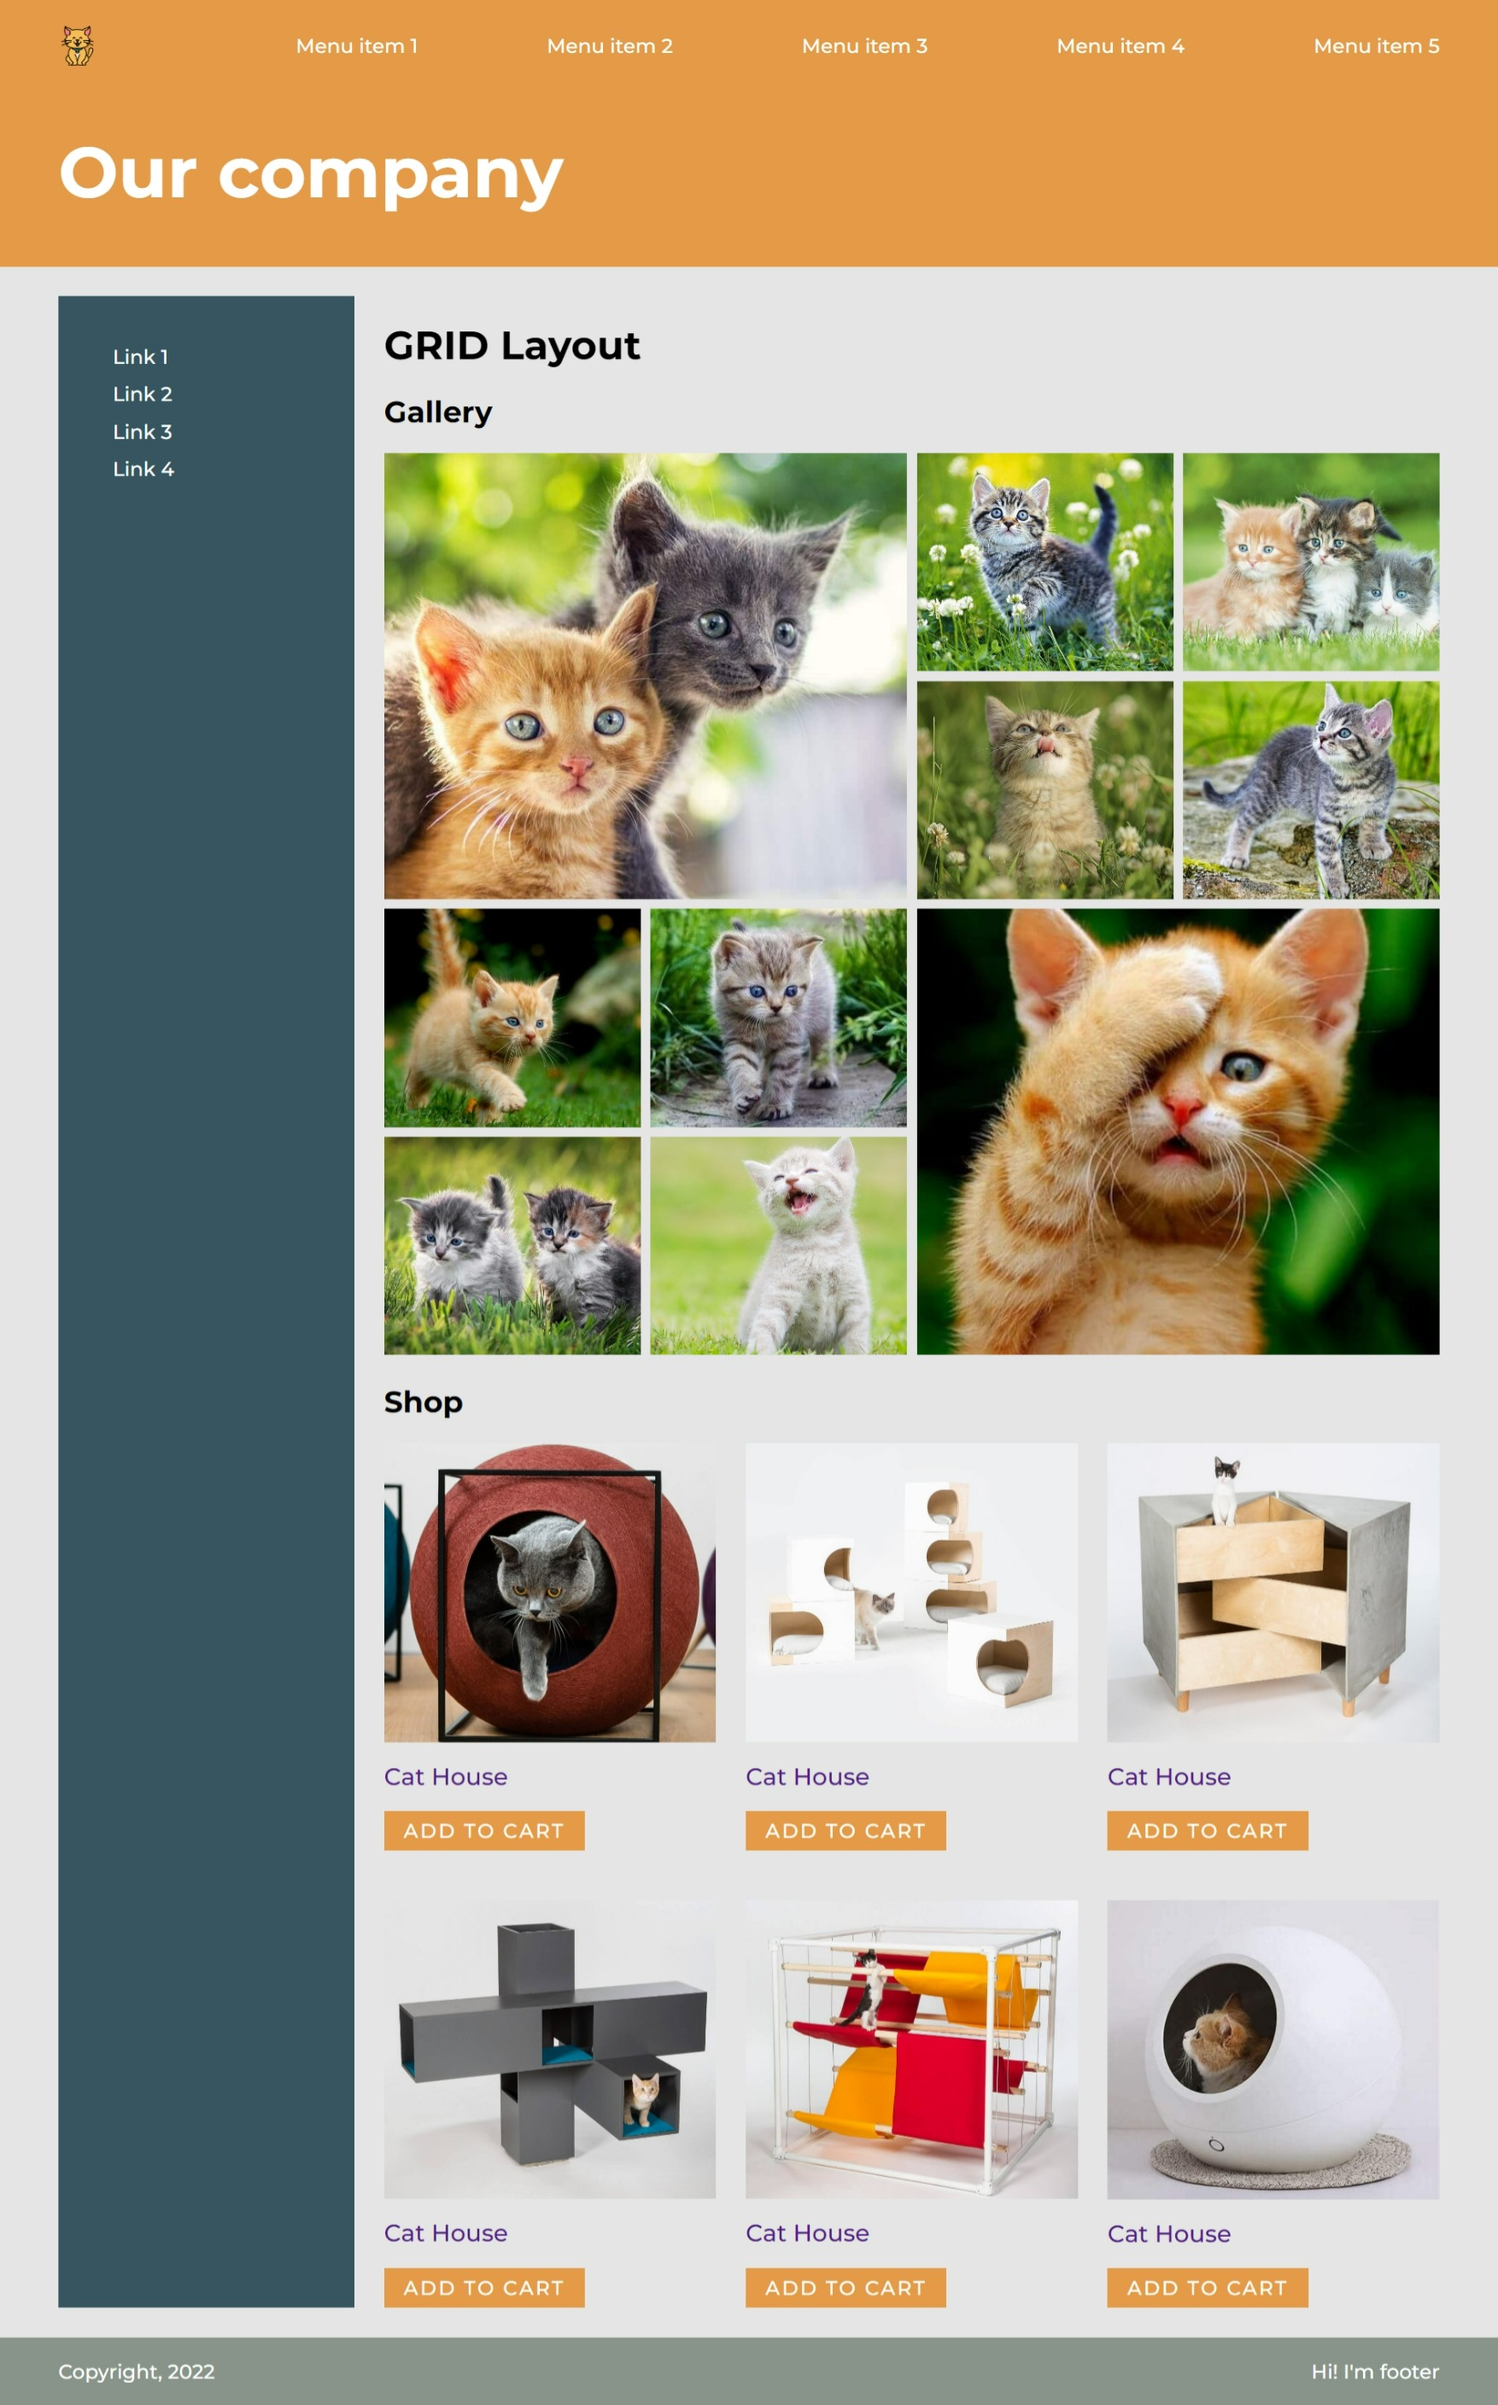
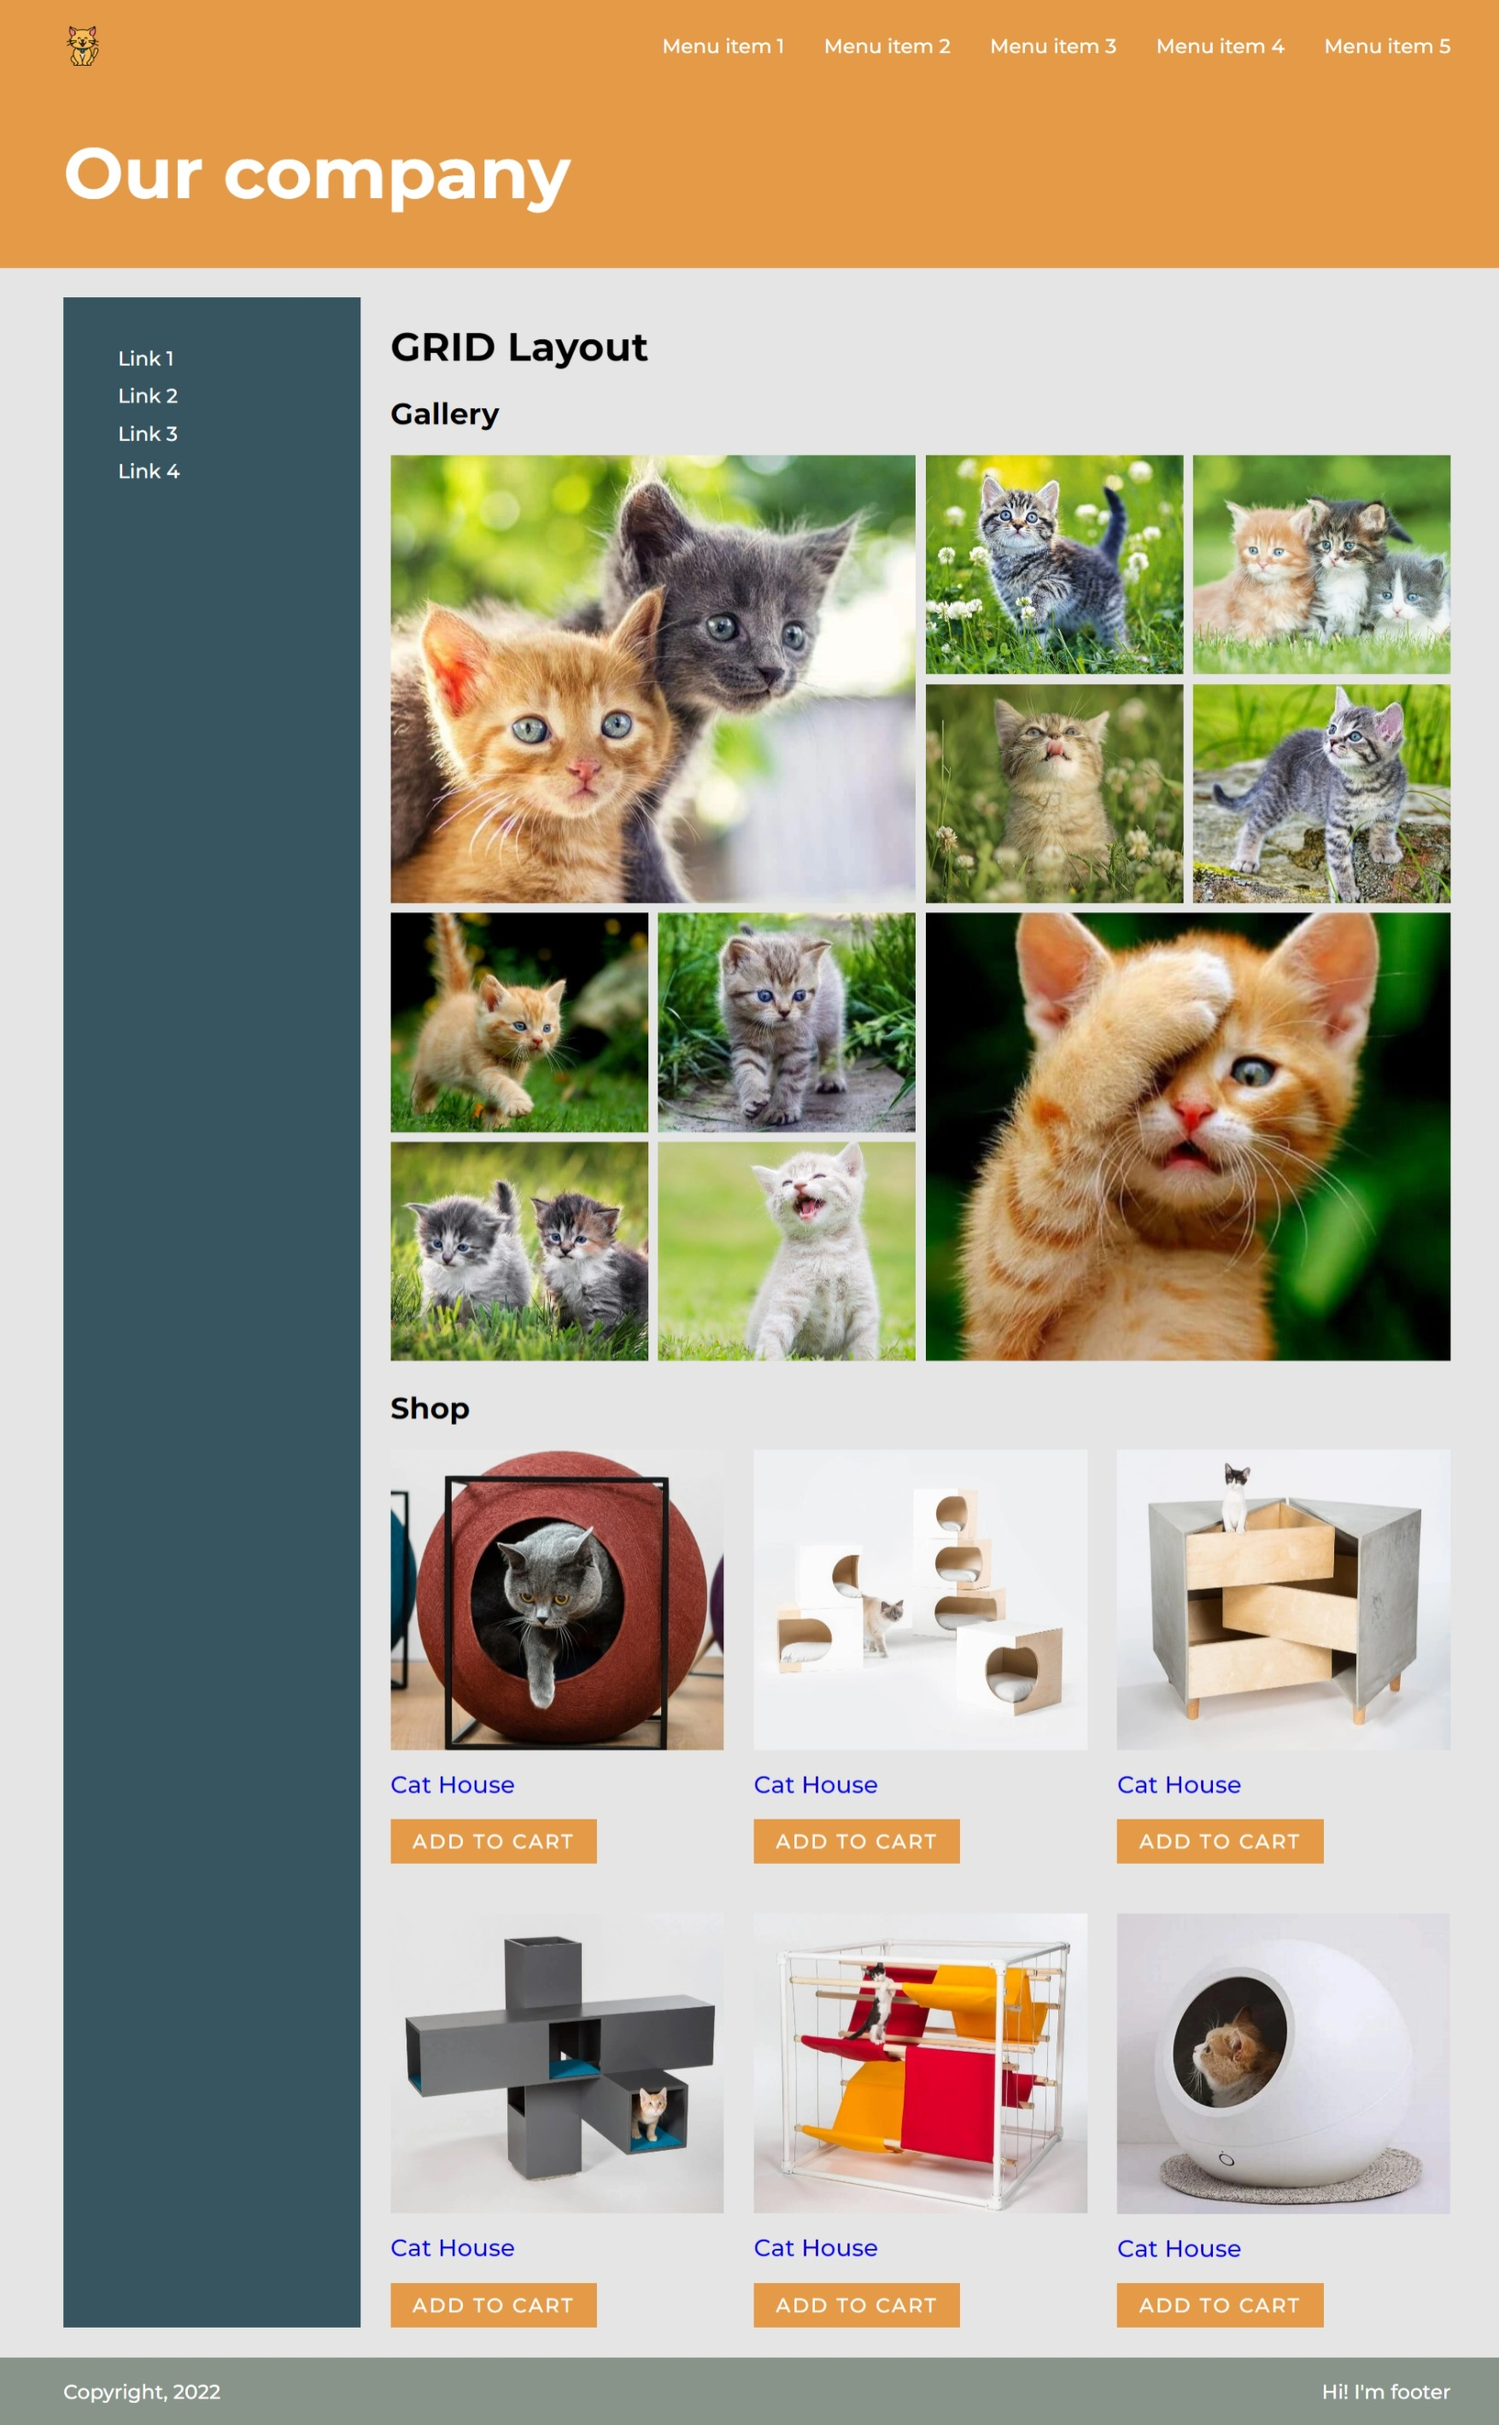
upd readme and images

diff --git a/index.html b/index.html
@@ -95,8 +95,8 @@
               </div>
               <div class="gallery__item">
                 <picture>
-                  <source srcset="assets/img/chaton4.webp" type="image/webp" />
-                  <img src="assets/img/chaton4.jpg" alt="kitten" />
+                  <source srcset="assets/img/chaton5.webp" type="image/webp" />
+                  <img src="assets/img/chaton5.jpg" alt="kitten" />
                 </picture>
               </div>
               <div class="gallery__item">

diff --git a/README.md b/README.md
@@ -1,12 +1,13 @@
-# CSS-Grid-Website-Mockup
+# CSS-Grid Website Mockup
 
-A basic CSS-Grid responsive website template
+A template for basic CSS-Grid responsive layout.
 
 <br>
 <img width="45%" alt="screen capture" src="../master/assets/img/captureweb.jpeg">
 
 ## Demo
-[CSS-Grid-Website-Mockup]
+
+[CSS-Grid Website Mockup]
 
 ## Tech details
 
@@ -16,7 +17,6 @@ A basic CSS-Grid responsive website template
 &nbsp;&nbsp;&nbsp;&nbsp;&check;&nbsp;&nbsp; Responsive layout<br>
 &nbsp;&nbsp;&nbsp;&nbsp;&check;&nbsp;&nbsp; Mobile-first<br>
 
-<br><br> 
-  
+<br><br>
 
-   [CSS-Grid-Website-Mockup]: <https://alenagm.github.io/CSS-Grid-Website-Mockup/>
+[CSS-Grid Website Mockup]: https://alenagm.github.io/css-grid-website-mockup/
